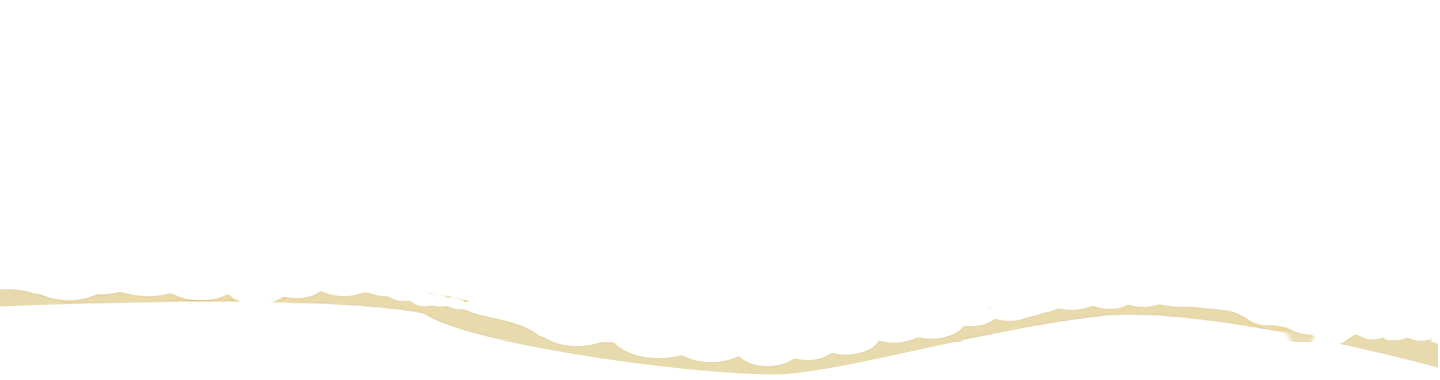
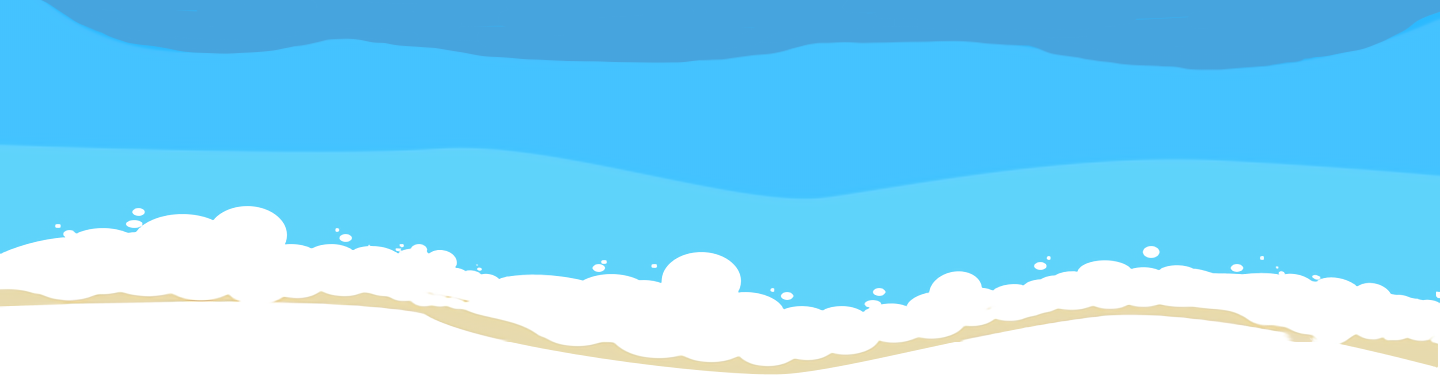
update

diff --git a/lib/home/home_page.dart b/lib/home/home_page.dart
@@ -5,10 +5,35 @@ class HomePageWidget extends StatefulWidget {
   createState() => HomePageWidgetState();
 }
 
-class HomePageWidgetState extends State<HomePageWidget> {
+class HomePageWidgetState extends State<HomePageWidget>
+    with SingleTickerProviderStateMixin {
+  Animation movement;
+  AnimationController controller;
+
+  dispose() {
+    //路由销毁时需要释放动画资源
+    controller.dispose();
+    super.dispose();
+  }
+
+  @override
+  void initState() {
+    super.initState();
+    controller = new AnimationController(
+        duration: const Duration(seconds: 30), vsync: this);
+    //图片宽高从0变到300
+    movement =
+        new Tween(begin: Alignment(-1.1, -0.85), end: Alignment(1.5, -0.85))
+            .animate(controller)
+              ..addListener(() {
+                setState(() => {});
+              });
+    //启动动画(正向执行)
+    controller.repeat();
+  }
+
   @override
   Widget build(BuildContext context) {
-    // TODO: implement build
     return Scaffold(
       appBar: AppBar(
         title: Text(
@@ -29,38 +54,54 @@ class HomePageWidgetState extends State<HomePageWidget> {
   }
 
   _getContentView() {
-    return Column(
+    return Stack(
       children: [
         Container(
+          color: Color(0xFF46A4DE),
+        ),
+        Image(
+          image: AssetImage('images/main_top.jpg'),
+        ),
+        Align(
+          alignment: Alignment(0, 1.0),
           child: Image(
-            image: AssetImage('images/main_top.jpg'),
+            image: AssetImage('images/main_bottom.jpg'),
           ),
         ),
-        Expanded(
-          child: Container(
-            color: Color(0xFF46A4DE),
+        Align(
+          alignment: Alignment(0, 0.7),
+          child: Image(
+            image: AssetImage('images/beach_lang.png'),
           ),
         ),
-        Container(
-          child: Stack(
-            children: [
-              Image(
-                image: AssetImage('images/main_bottom.jpg'),
+        Align(
+          alignment: Alignment(-1, 0.9),
+          child: GestureDetector(
+            onTap: () {
+              _sendBottleEvent();
+            },
+            child: SizedBox(
+              width: 150,
+              height: 150,
+              child: Image(
+                image: AssetImage('images/throw_pz.png'),
               ),
-              Container(
-                margin: EdgeInsets.only(top: 10, left: 10, bottom: 10),
-                child: SizedBox(
-                  width: 150,
-                  height: 150,
-                  child: Image(
-                    image: AssetImage('images/throw_pz.png'),
-                  ),
-                ),
-              )
-            ],
+            ),
           ),
-        )
+        ),
+        Align(
+          alignment: movement.value,
+          child: Image(
+            image: AssetImage('images/balloon (1).png'),
+            width: 60,
+            height: 60,
+          ),
+        ),
       ],
     );
+  }
+
+  _sendBottleEvent() {
+    print('扔瓶子');
   }
 }
